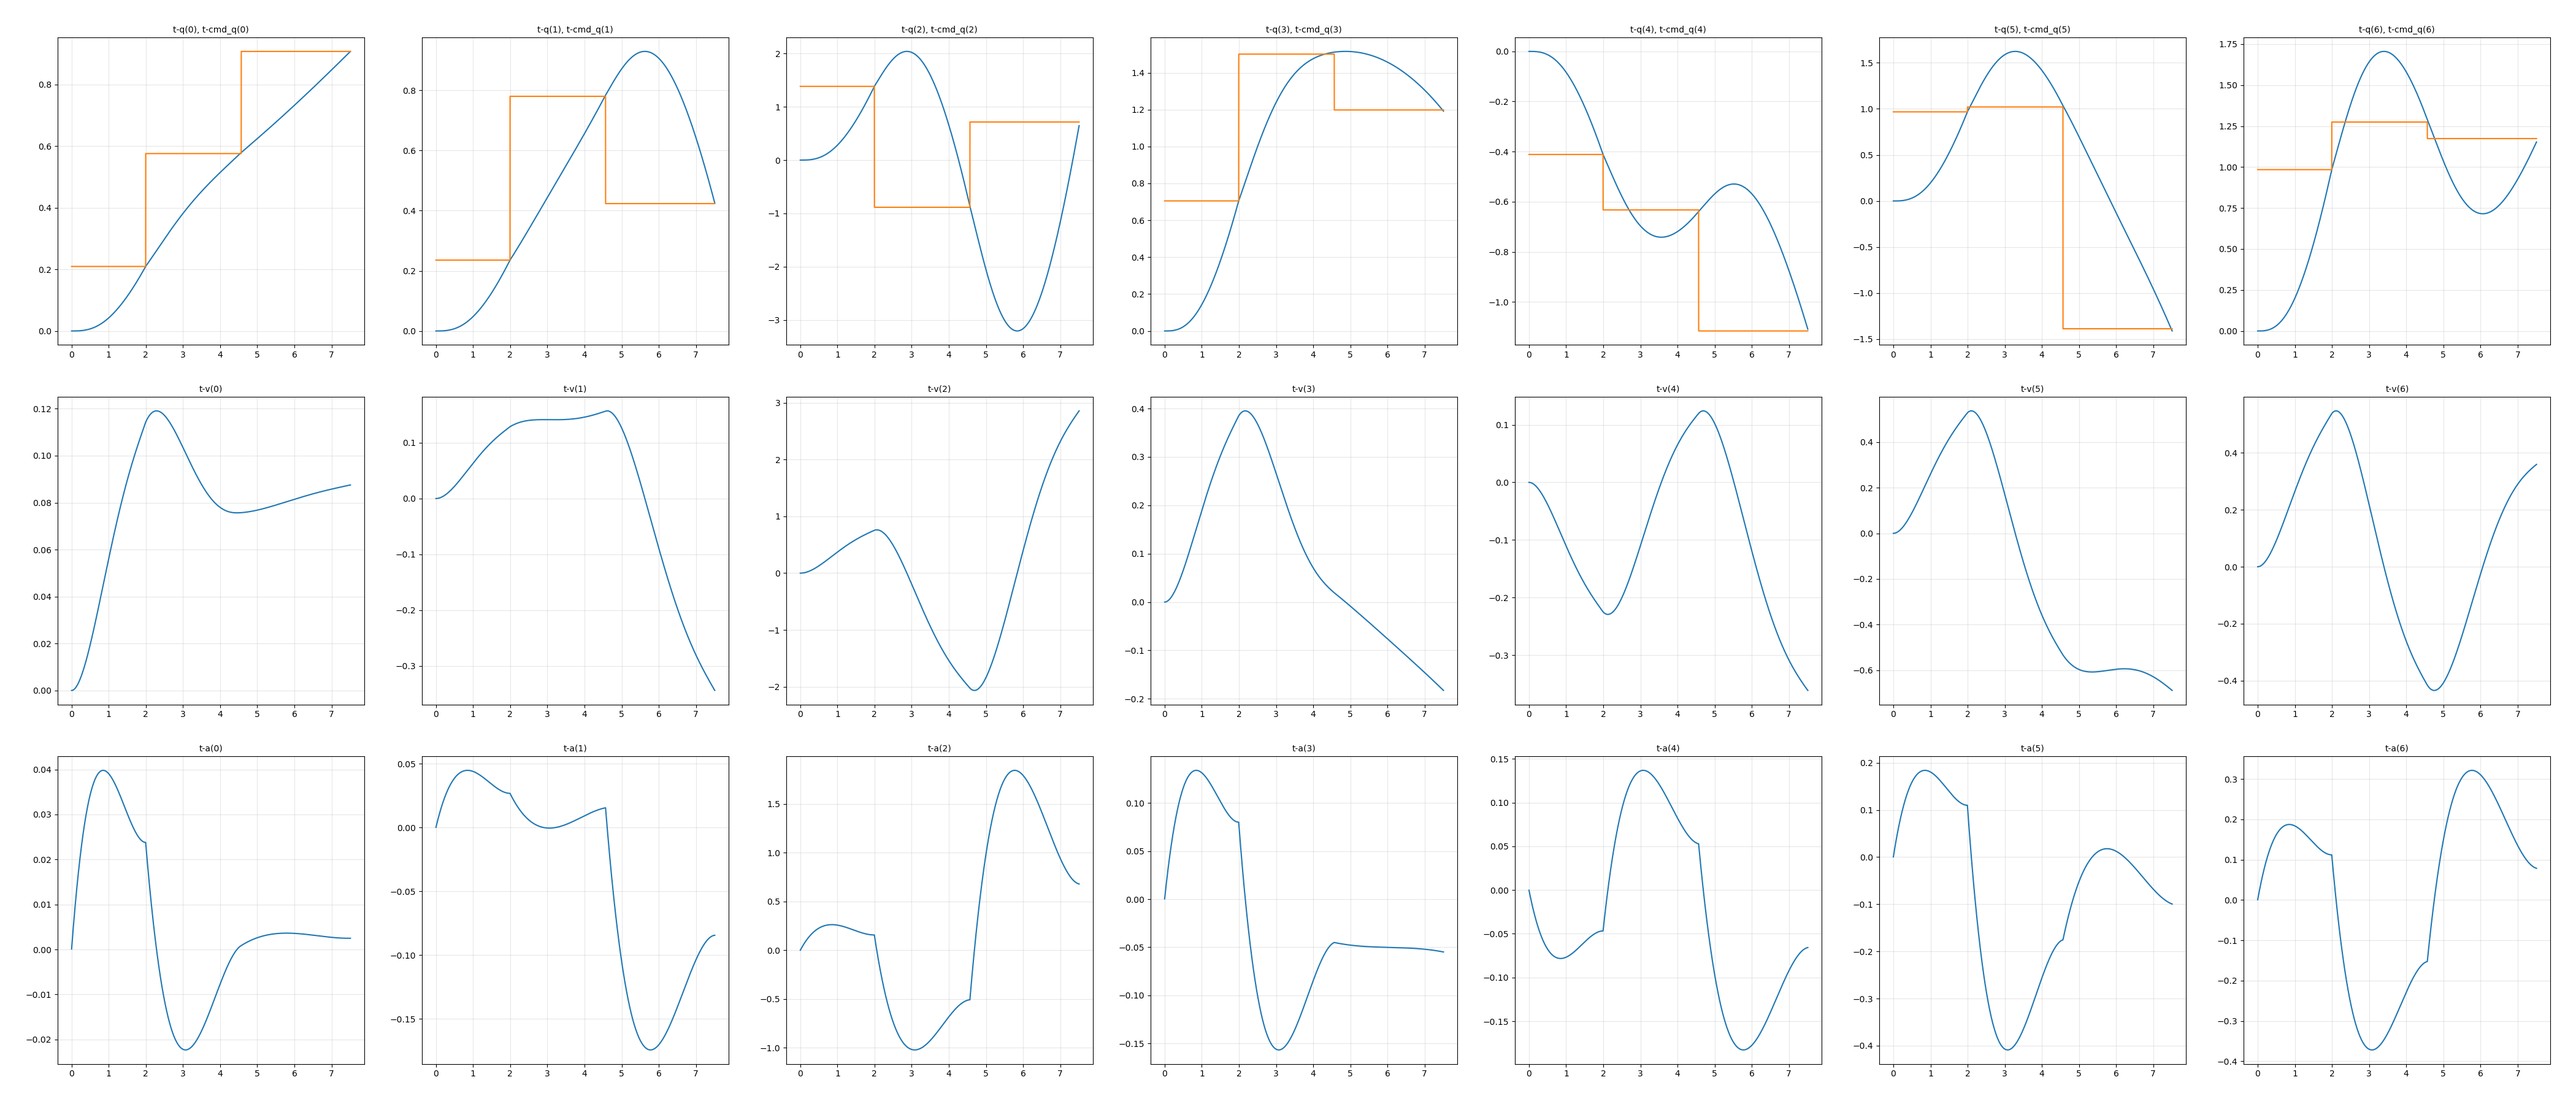
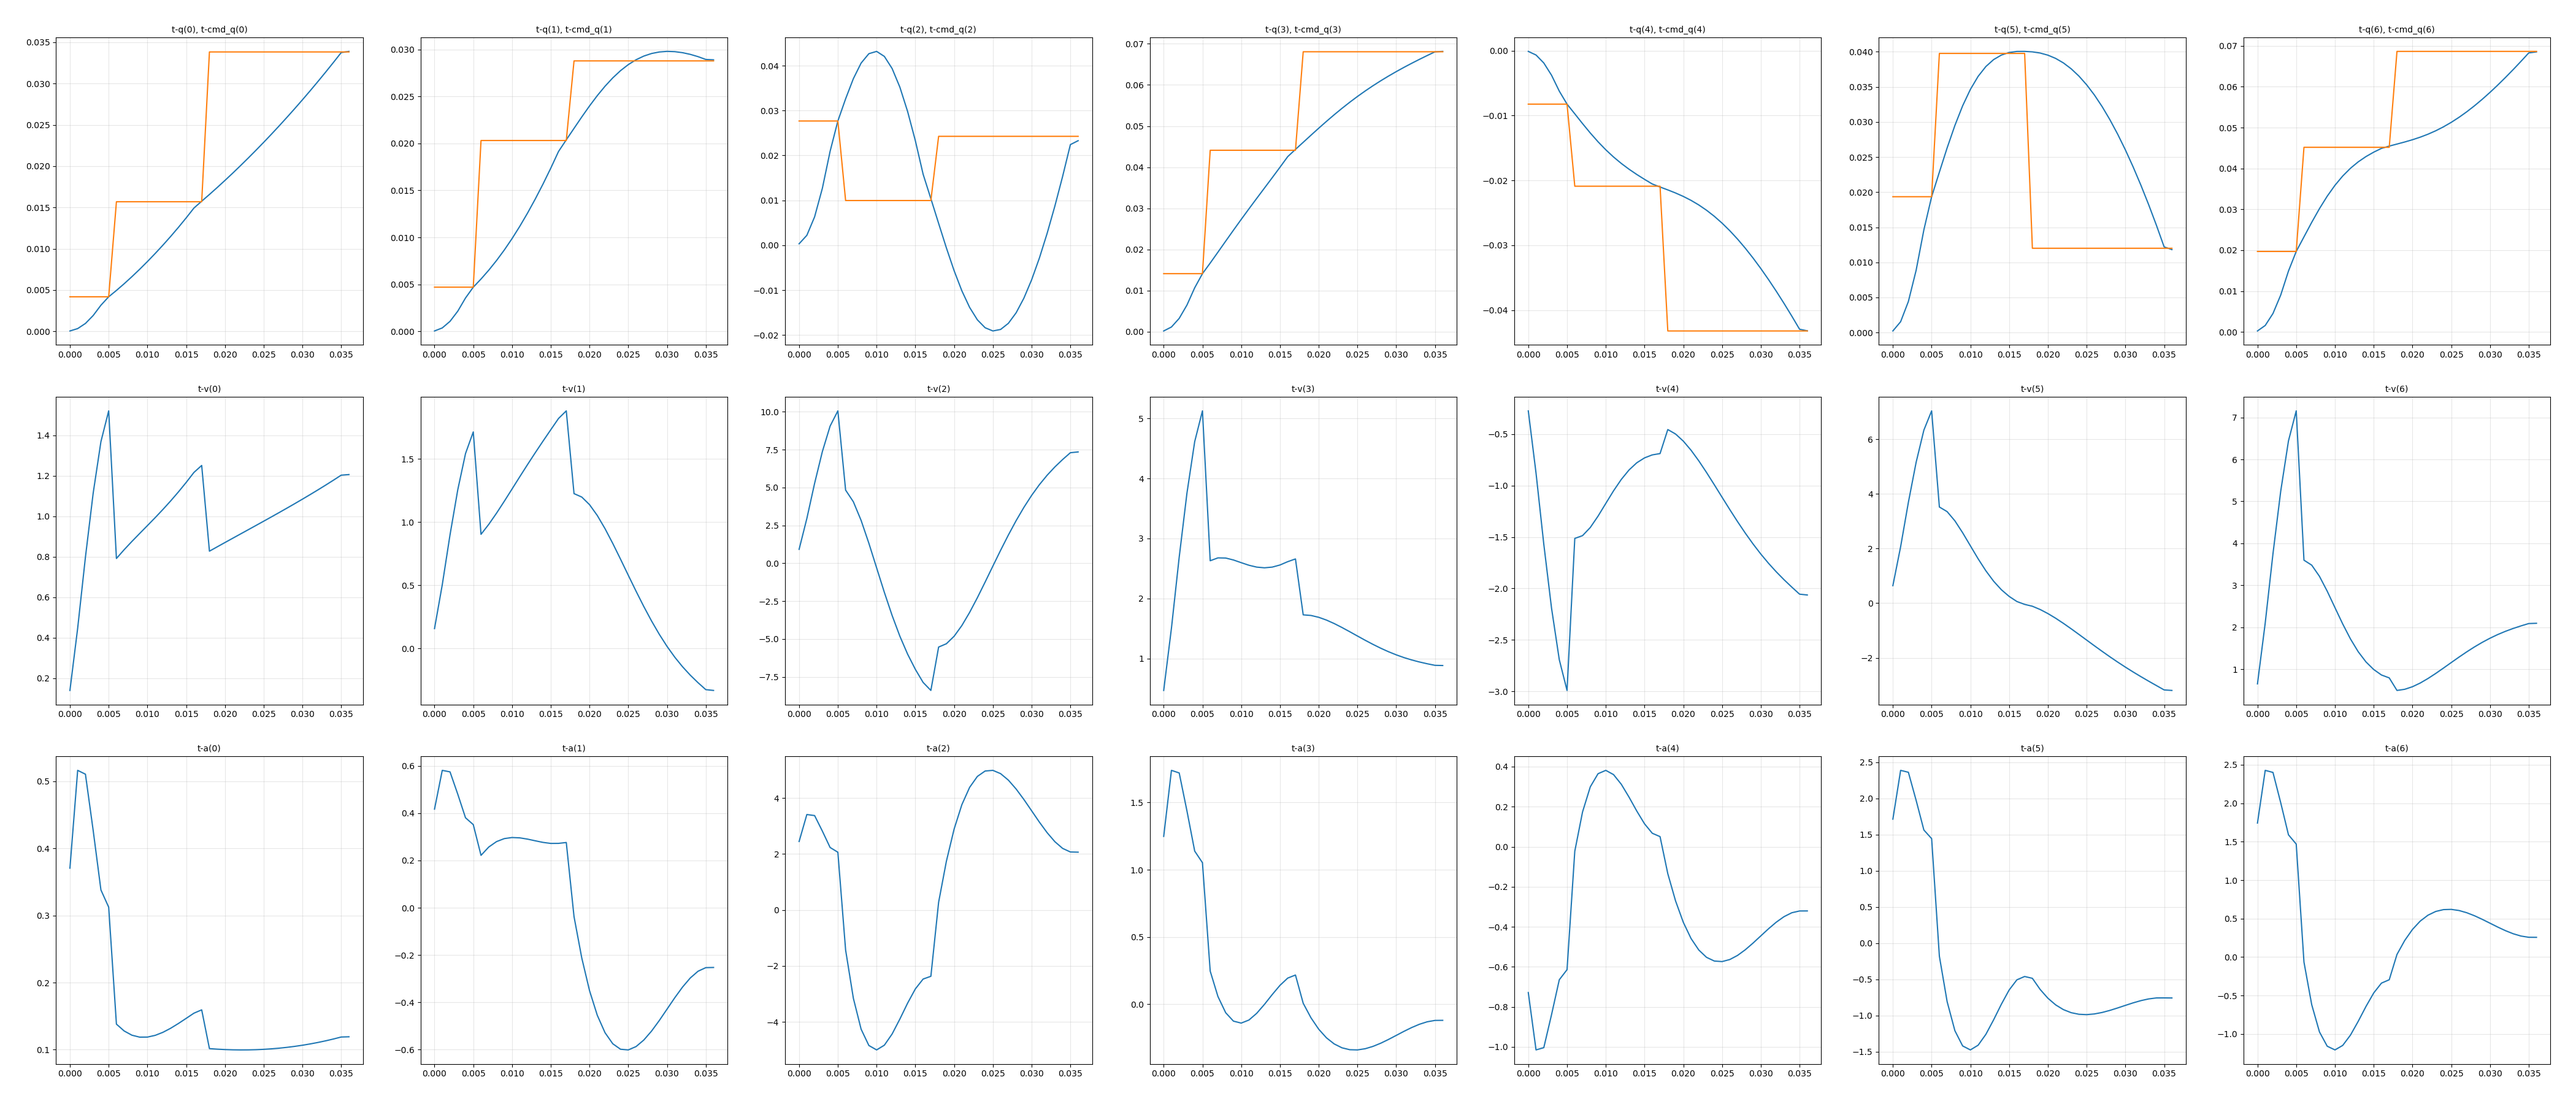
update figs

diff --git a/scripts/obvp_planner_test.py b/scripts/obvp_planner_test.py
@@ -40,7 +40,7 @@ if __name__ == "__main__":
 
     dof = 7
     initial_state = np.zeros((3, dof), dtype=np.float64)
-    max_vel = np.array([1.0] * dof, dtype=np.float64)
+    max_vel = np.array([10.0] * dof, dtype=np.float64)
     max_acc = np.array([5.0] * dof, dtype=np.float64)
     weight_T = 1.0
 
@@ -58,13 +58,13 @@ if __name__ == "__main__":
     rate = rospy.Rate(1/dt)
 
     np.random.seed(8329)
-    type = 1
+    type = 3
     tar_state = np.zeros((type, dof))
     i = 0
     pts = 0
     mean_t = 0
     while rospy.is_shutdown() == False:
-        if dt*i >= planner.getT()*0.5:
+        if dt*i >= planner.getT():
             i = 0
             pts += 1
             resolution = planner.getResolution()
